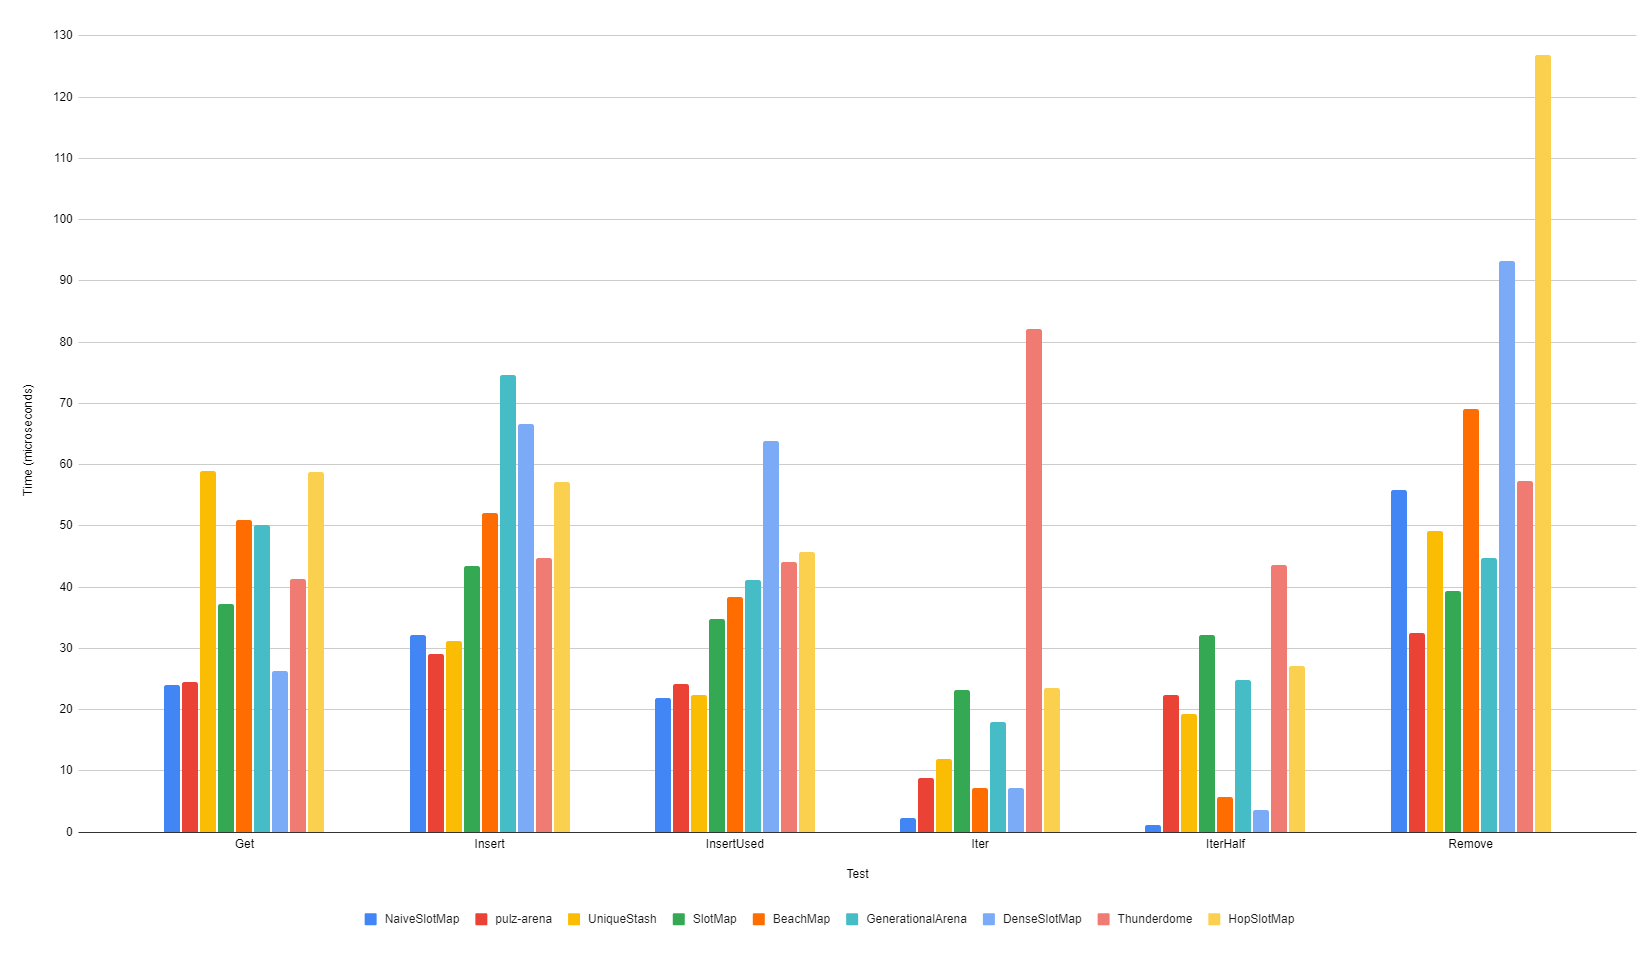
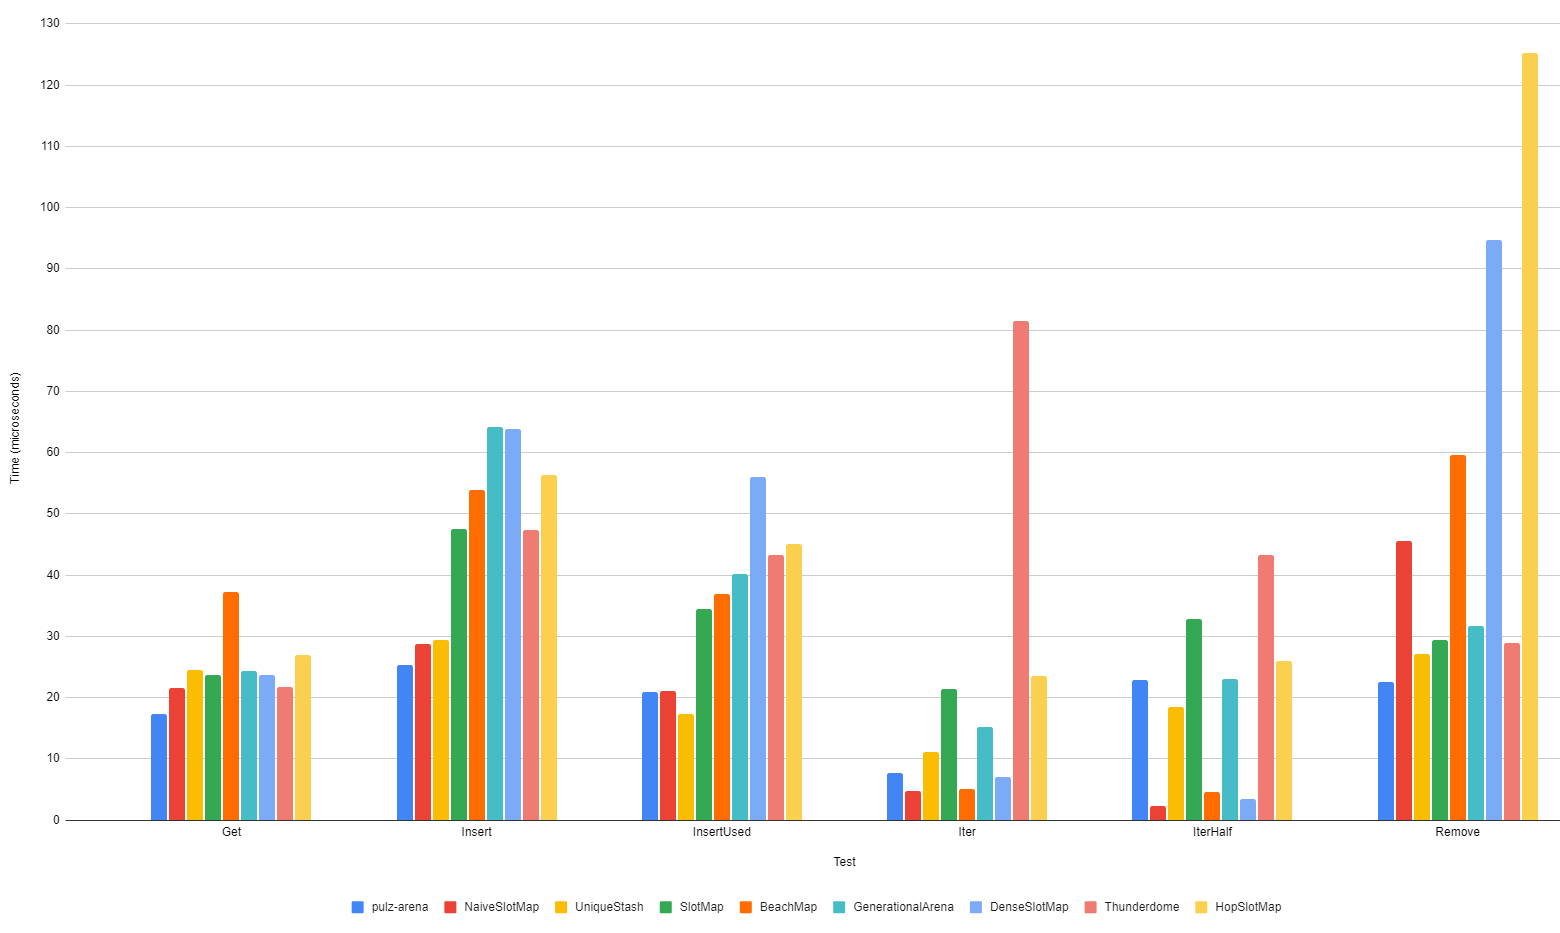
Increase sample time

diff --git a/benches/basic.rs b/benches/basic.rs
@@ -1,4 +1,6 @@
-use criterion::{criterion_group, criterion_main, Criterion};
+use criterion::{
+    criterion_group, criterion_main, measurement::WallTime, BenchmarkGroup, Criterion,
+};
 use genbench::Crate;
 use oorandom::Rand32;
 
@@ -23,9 +25,15 @@ pub fn tests() -> [Box<dyn Crate>; 16] {
     ]
 }
 
+fn configure<'a>(c: &'a mut Criterion, name: &'a str) -> BenchmarkGroup<'a, WallTime> {
+    let mut g = c.benchmark_group(name);
+    g.sample_size(200);
+    g
+}
+
 fn inserts(c: &mut Criterion) {
     let size = 10_000;
-    let mut g = c.benchmark_group("Insert");
+    let mut g = configure(c, "Insert");
     for test in self::tests() {
         g.bench_function(test.name(), |b| {
             test.insert(b, size);
@@ -35,7 +43,7 @@ fn inserts(c: &mut Criterion) {
 
 fn reinserts(c: &mut Criterion) {
     let size = 10_000;
-    let mut g = c.benchmark_group("InsertUsed");
+    let mut g = configure(c, "InsertUsed");
     for test in self::tests() {
         g.bench_function(test.name(), |b| {
             test.reinsert(b, size);
@@ -45,7 +53,7 @@ fn reinserts(c: &mut Criterion) {
 
 fn remove(c: &mut Criterion) {
     let size = 10_000;
-    let mut g = c.benchmark_group("Remove");
+    let mut g = configure(c, "Remove");
 
     // Lookup is being populated with all 10,000 indicies with a non-linear distribution.
     let mut rng = Rand32::new(17534350047697527989);
@@ -69,7 +77,7 @@ fn get(c: &mut Criterion) {
     for _ in 0..size {
         lookup.push(rng.rand_u32() as usize % size);
     }
-    let mut g = c.benchmark_group("Get");
+    let mut g = configure(c, "Get");
     for test in self::tests() {
         g.bench_function(test.name(), |b| {
             test.get(b, &lookup, size);
@@ -79,7 +87,7 @@ fn get(c: &mut Criterion) {
 
 fn iterate(c: &mut Criterion) {
     let size = 10_000;
-    let mut g = c.benchmark_group("Iter");
+    let mut g = configure(c, "Iter");
     for test in self::tests() {
         g.bench_function(test.name(), |b| {
             test.iterate(b, size);
@@ -96,7 +104,7 @@ fn reiterate(c: &mut Criterion) {
             lookup.push(i);
         }
     }
-    let mut g = c.benchmark_group("IterHalf");
+    let mut g = configure(c, "IterHalf");
     for test in self::tests() {
         g.bench_function(test.name(), |b| {
             test.reiterate(b, &lookup, size);
